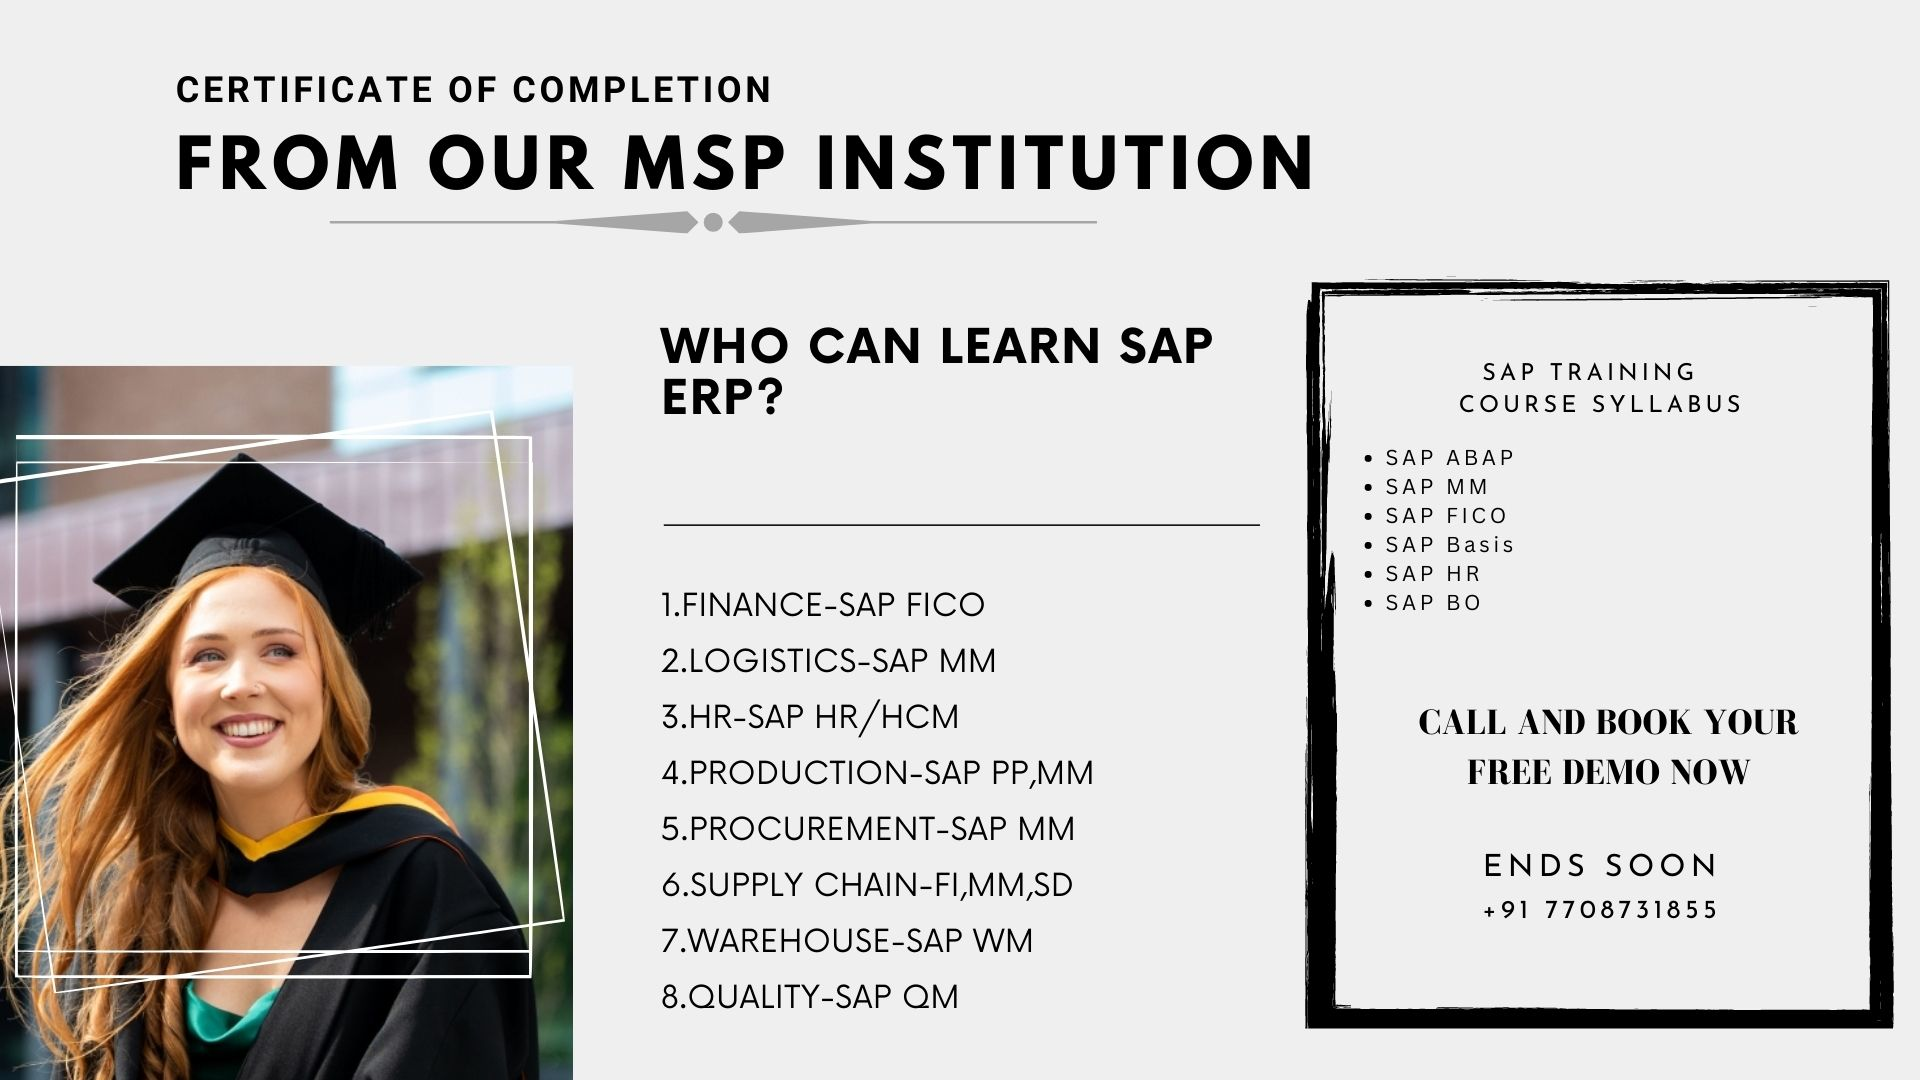
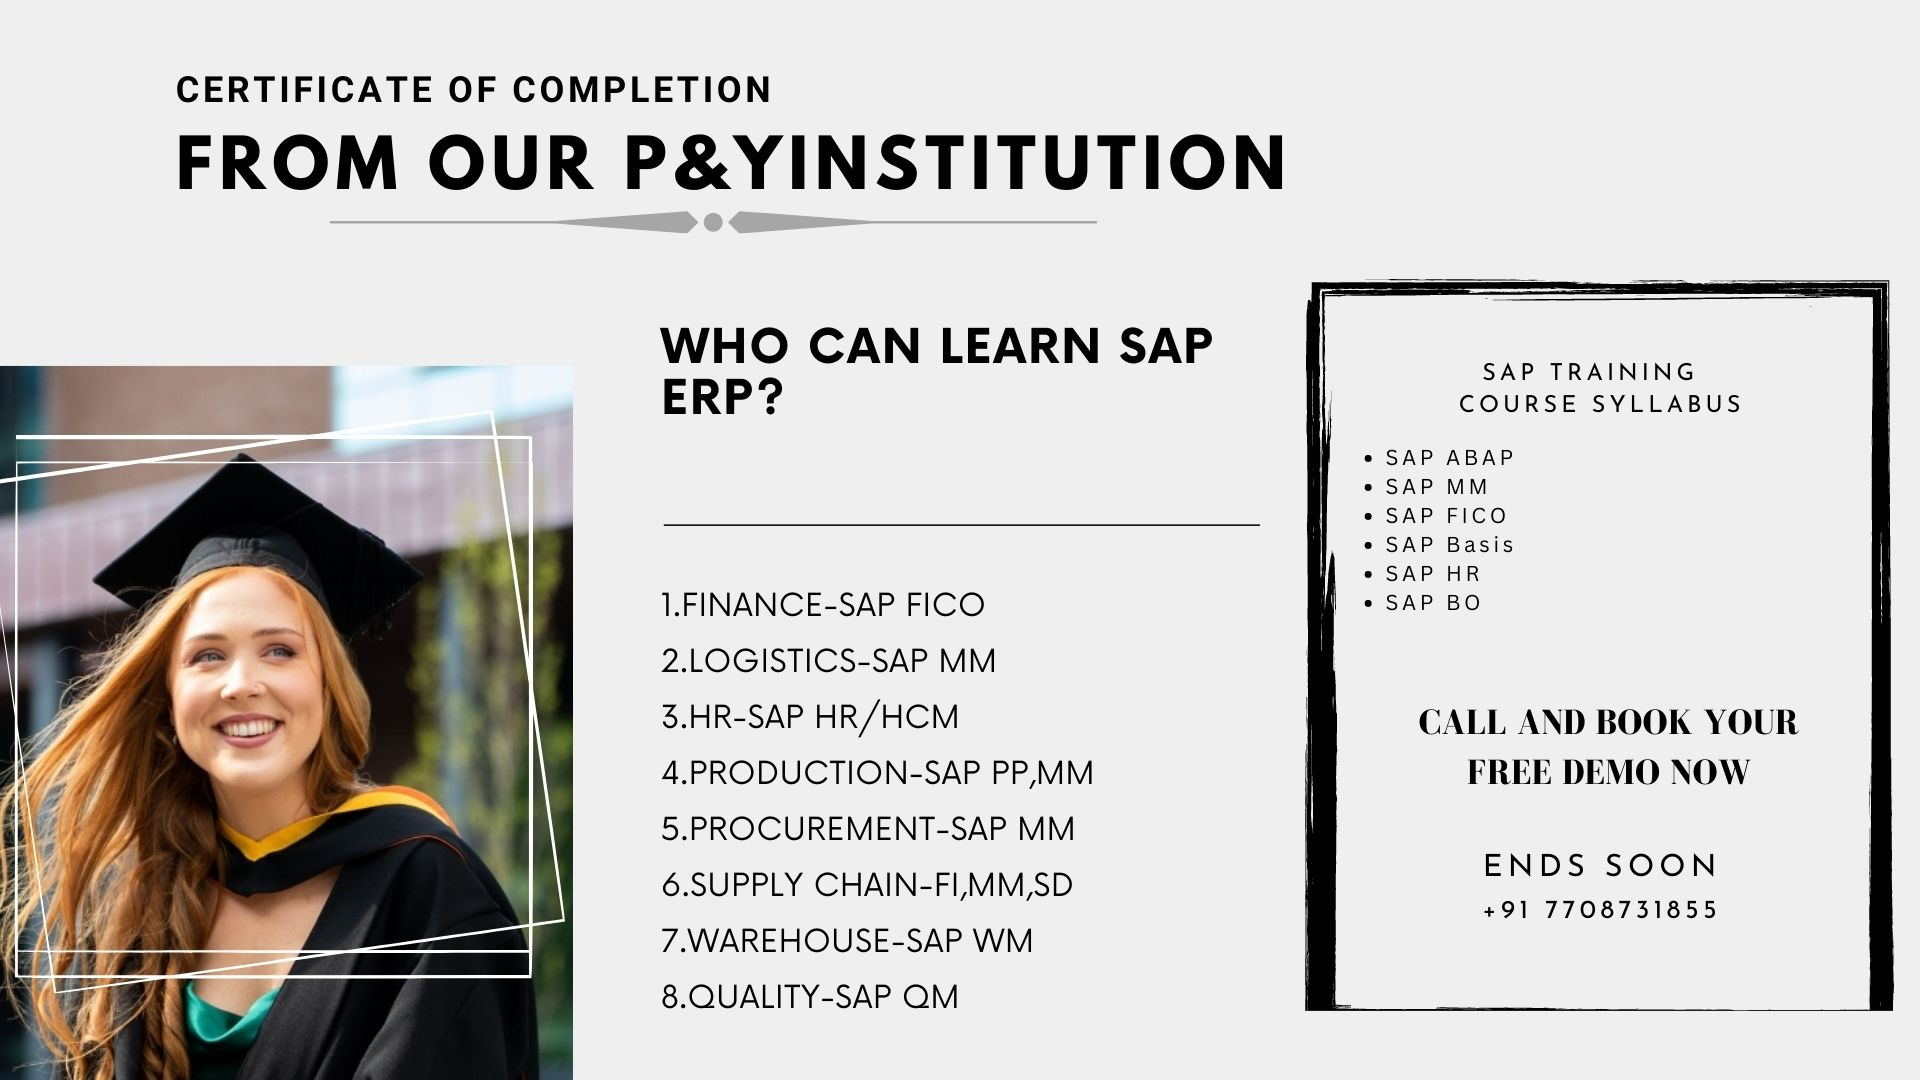
Add files via upload

Changed region(s): [[0.3125, 0.1222, 0.6875, 0.1833], [0.6875, 0.9167, 1.0, 0.9778], [0.9375, 0.2444, 0.9688, 0.275]]

diff --git a/achievements.html b/achievements.html
@@ -17,7 +17,7 @@
             <div>
               <div class="singleline">
                 <h1 class="title">
-                  MSP Institution
+                  P & Y Institution
                 </h1>
               </div>
               <div class="singleline">
@@ -41,14 +41,14 @@
             </div>
         </div>
         <div class="acheivementhead">
-          Acheivements of MSP Institution
+          Acheivements of P & Y Institution
         </div>
         <div class="acheivement1">          
           <div class="acheivementpoint">
             <div>
               <p class="paragraphacheivement">
-                MSP is the place to strive relentlessly; constantly improve ourselves, teams, and professionals to become the best. 
-                "In the next five years, MSP will stand out from other Institutions and make a mark in the industry with the collective
+                P & Y is the place to strive relentlessly; constantly improve ourselves, teams, and professionals to become the best. 
+                "In the next five years, P & Y will stand out from other Institutions and make a mark in the industry with the collective
                  effort of all the employees."
               </p>
             </div>
@@ -64,8 +64,8 @@
           <div class="acheivementpoint">
             <div>
               <p class="paragraphacheivement">
-                “I got an excellent opportunity to learn at MSP Institute. With great Teaching skills and professional Etiquette,
-                 I foresee MSP Institute to reach places in the near future. I am very glad to inform that I got placed in an MNC company with CTC 5 LPA".
+                “I got an excellent opportunity to learn at P & Y Institute. With great Teaching skills and professional Etiquette,
+                 I foresee P & Y Institute to reach places in the near future. I am very glad to inform that I got placed in an MNC company with CTC 5 LPA".
               </p>
             </div>
           </div>
@@ -80,7 +80,7 @@
           <div class="acheivementpoint">
             <div>
               <p class="paragraphacheivement">
-                MSP Institute encourages freshers to learn in their domain without any restriction.
+                P & Y Institute encourages freshers to learn in their domain without any restriction.
                  With the guidance and vision of our mentor I got placed with 4.5 LPA.
               </p>
             </div>
@@ -97,7 +97,7 @@
             <div>
               <p class="paragraphacheivement">
                 My confidence level has improved and I can see my career grow. This is possible only due to professional 
-                guiding work at MSP Institute. I can visualize MSP as one of the most reputed organization. I am happy to 
+                guiding work at P & Y Institute. I can visualize P & Y as one of the most reputed organization. I am happy to 
                 say that I joined an MNC company with a package of 3.25 LPA.
               </p>
             </div>

diff --git a/about.html b/about.html
@@ -17,7 +17,7 @@
             <div>
               <div class="singleline">
                 <h1 class="title">
-                  MSP Institution
+                  P & Y Institution
                 </h1>
               </div>
               <div class="singleline">
@@ -46,9 +46,9 @@
           </div>  
           <div class="aboutuspoint">
             <div>
-              <p class="paragraphaboutus">MSP Institutions is a prestigious educational institution - considers its mission to provide outstanding training to make 
+              <p class="paragraphaboutus">P & Y Institutions is a prestigious educational institution - considers its mission to provide outstanding training to make 
                 elite professional ready to work. In this global world, only by having a highly professional and open-minded education that incorporates a strong 
-                sense of ethics and responsibilities can one remain competitive. MSP considers it a number one priority that the students and staff, regardless of 
+                sense of ethics and responsibilities can one remain competitive. P & Y considers it a number one priority that the students and staff, regardless of 
                 age or background, ethnical or otherwise, are encouraged to embark upon a voyage of lifelong learning and self development through study, research 
                 and academic endeavour. This will lead to an improvement in the quality of life while contributing to the training of a more flexible and better
                  prepared labour force. Our institute promises that the structure of our programmes should be practice-oriented, and based on work experience, 

diff --git a/index.html b/index.html
@@ -17,7 +17,7 @@
             <div>
               <div class="singleline">
                 <h1 class="title">
-                  MSP Institution
+                  P & Y Institution
                 </h1>
               </div>
               <div class="singleline">
@@ -43,9 +43,9 @@
         <div class="center1">
           <div id="slider">
             <ul id="slideWrap">
-              <li><img src="scrollimage\image1.jpg" alt=""></li>
-              <li><img src="scrollimage\image2.jpg" alt=""></li>
-              <li><img src="scrollimage\image3.jpg" alt=""></li>
+              <li><img src="image11.jpg" alt=""></li>
+              <li><img src="image22.jpg" alt=""></li>
+              <li><img src="image33.jpg" alt=""></li>
             </ul>
             <a id="prev" href="#">&#8810;</a>
             <a id="next" href="#">&#8811;</a>
@@ -77,7 +77,7 @@
             <div class="tutorialdiv">
               <h1 class="heading">PROFESSIONAL SAP TRAINING</h1>  
               <video width="640" height="320" autoplay muted controls>
-                <source src="video\Ford.V.Ferrari.mp4" type="video/mp4">
+                <source src="Ford.V.Ferrari.mp4" type="video/mp4">
               </video>              
               <p class="paragraphcourse">NOW OFFERING VIRTUALLY<br>
                 <br>&#9755 advantage1<br>

diff --git a/contact.html b/contact.html
@@ -17,7 +17,7 @@
             <div>
               <div class="singleline">
                 <h1 class="title">
-                  MSP Institution
+                  P & Y Institution
                 </h1>
               </div>
               <div class="singleline">
@@ -42,7 +42,7 @@
         </div>
         <div class="rules">
           <p class="paragraphcontact1">Fill in your personal details below in the form.
-            <br>If you are looking forward to start a career with MSP Institutions then please enter you details in the career form.</p>
+            <br>If you are looking forward to start a career with P & Y Institutions then please enter you details in the career form.</p>
           <p class="paragraphcontact1">&#9755 *Note : On pressing the send button it will open onto your email.*</p>
         </div>
         <div class="opendiv1">          
